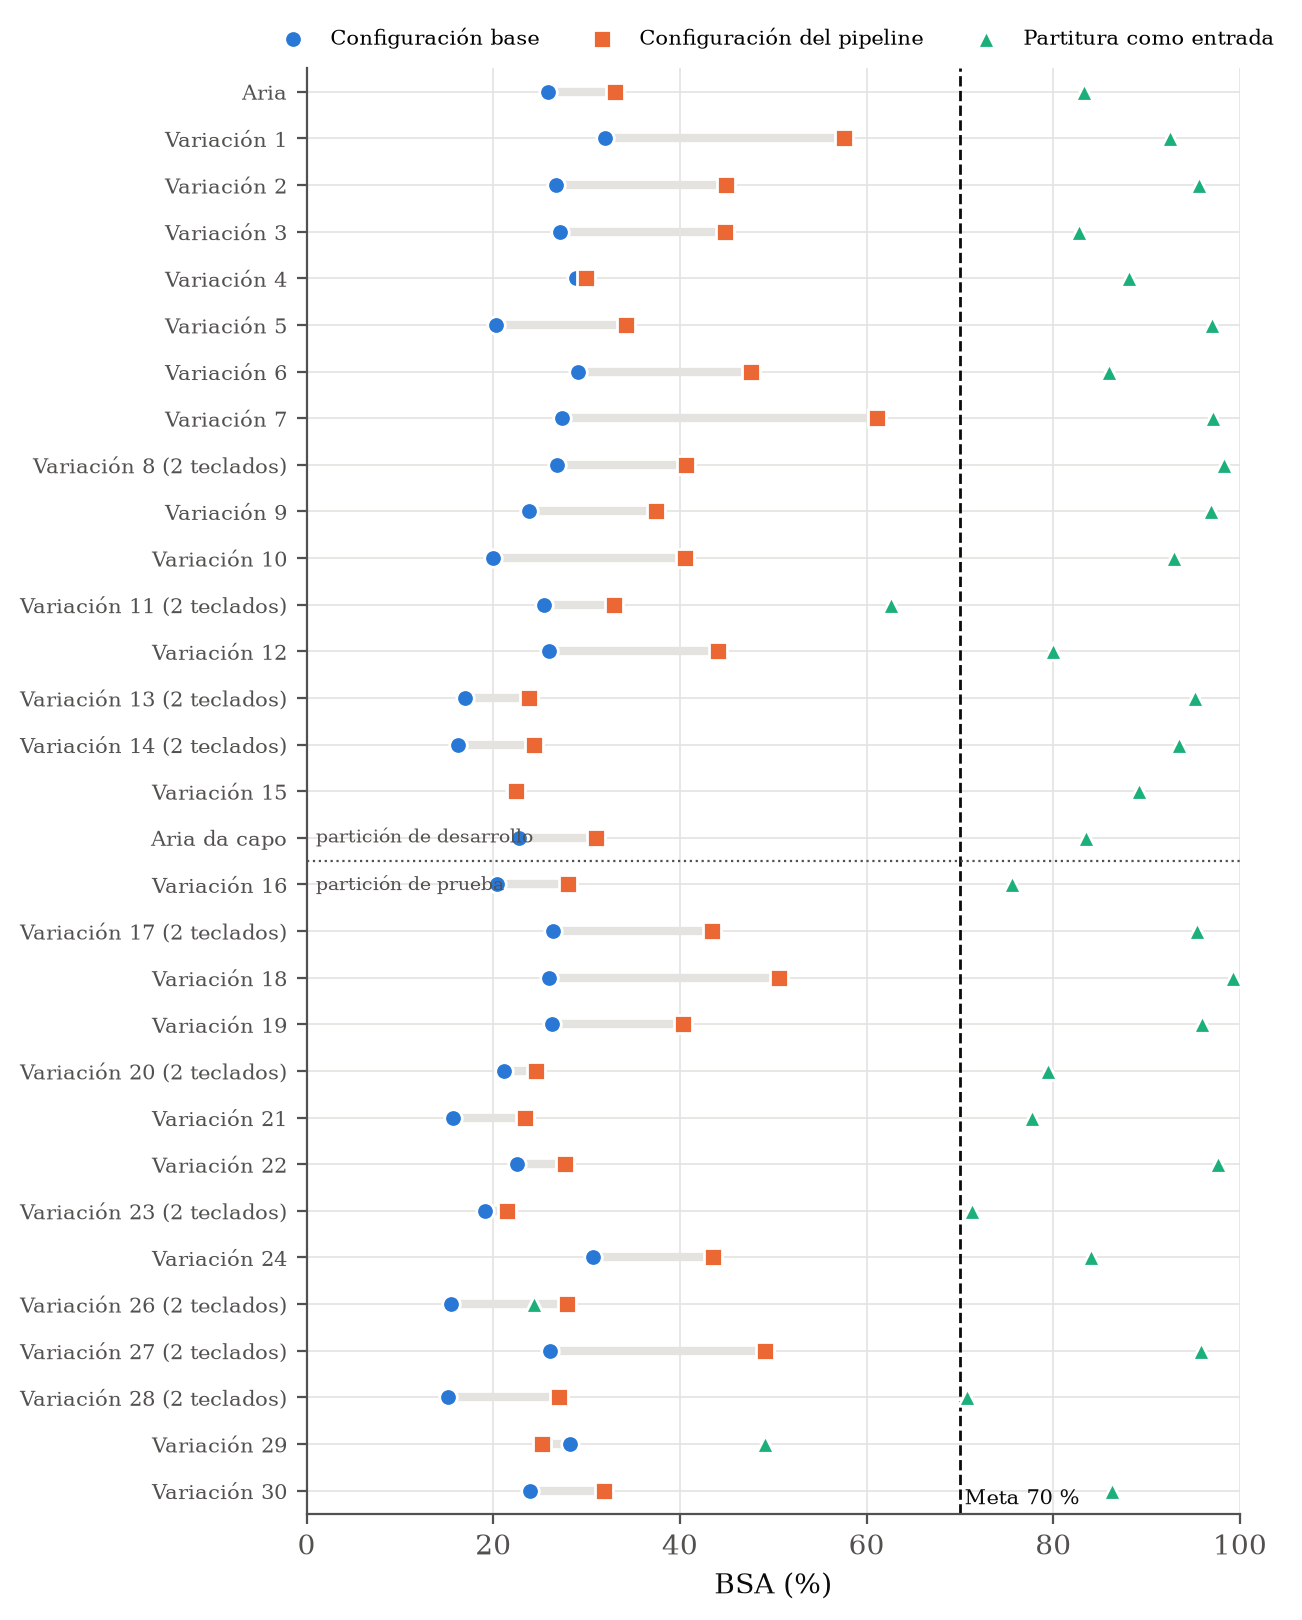
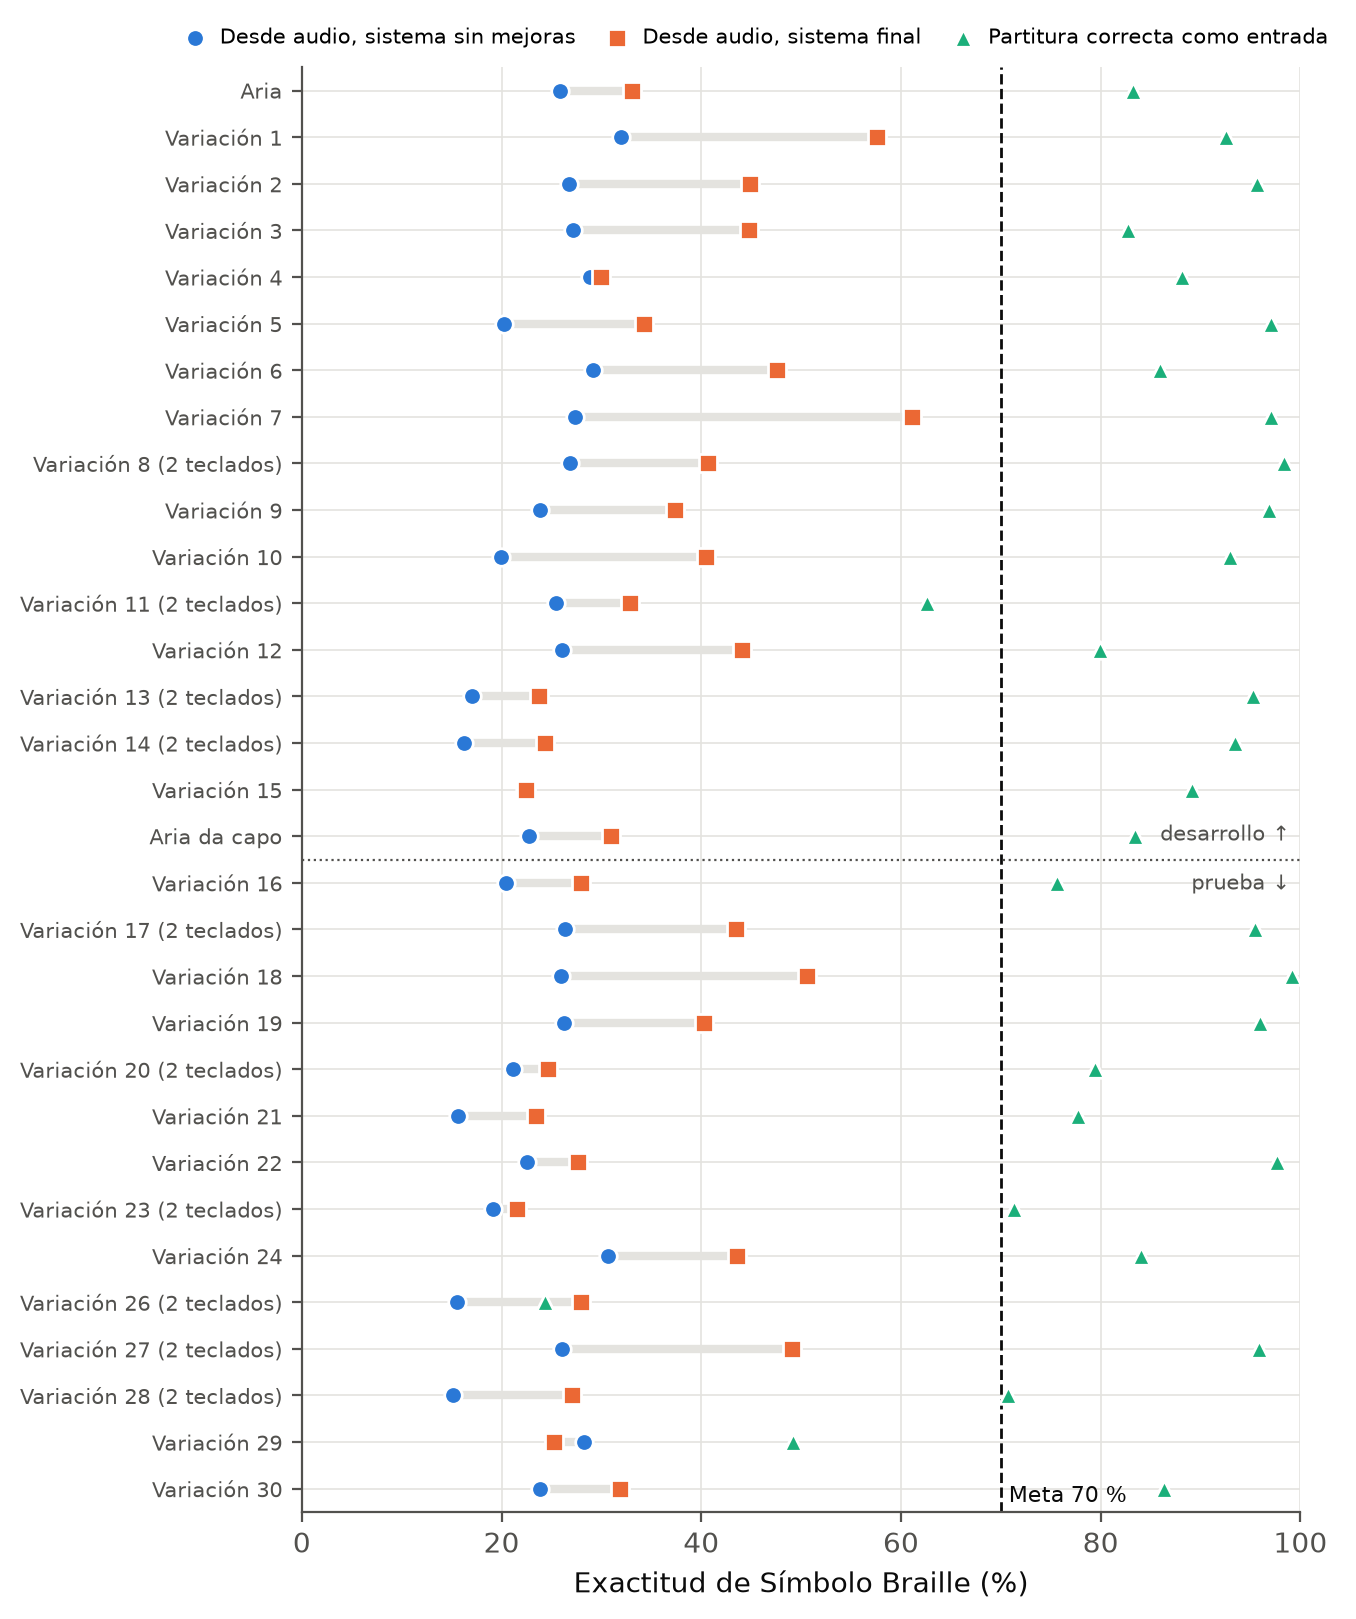
[FEAT] amt_presentation: clearer Goldberg chart labels, single conclusions slide, recommendations table only

diff --git a/amt_presentation/index.html b/amt_presentation/index.html
@@ -708,7 +708,7 @@
 </section>
 
 <!-- 8. Conclusiones -->
-<section class="slide" id="conclusiones" data-peso="90" data-parte="Conclusiones" data-titulo="Conclusiones por objetivo">
+<section class="slide" id="conclusiones" data-peso="150" data-parte="Conclusiones" data-titulo="Conclusiones por objetivo">
   <div class="contenido centrado">
     <h2 class="titulo-seccion">Conclusiones</h2>
     <p class="subtitulo">¿Qué se concluye de cada objetivo?</p>
@@ -725,18 +725,6 @@
   <aside class="notas"><p><b>Conclusiones por objetivo</b></p><p>La pregunta era en qué medida este sistema puede generar partituras Braille con la exactitud necesaria para el uso autónomo. La respuesta corta es que la cadena funciona de principio a fin y una persona ciega la puede usar sola, pero la partitura que sale del audio queda entre 33 y 47 %, lejos del 70 que me propuse. Y esa pérdida tiene un lugar, la reconstrucción de la partitura.</p><p class="accion">Recorro las tarjetas.</p><p>En el primer objetivo, elegí el modelo con evidencia porque esa etapa pone el techo de todo lo demás. Esperaba que un modelo especializado en piano pasara los umbrales y Kong lo hizo. Lo que aprendí ahí es que el resultado depende mucho de cómo se mide el final de las notas, porque esa convención movió el F1 de 33 a casi 84 %.</p><p>En el segundo, esperaba que las degradaciones simuladas se parecieran a lo que graba una persona en su casa. En la simulación el ajuste cumplió, pero con teléfono las mismas obras perdieron 13.3 puntos. Simular el ruido, el eco y la compresión por separado no reprodujo una grabación casera, y por eso queda parcial.</p><p>En el tercero, usar reglas deterministas resultó la decisión correcta, porque con la partitura como entrada el traductor llega a 78.8 %. Lo que no esperaba es que las ediciones humanas agruparan siempre las semicorcheas, y sin agregar esa regla no habría pasado la meta.</p><p>En el cuarto, la espera es viable en todos los entornos, con un máximo de 1.21 veces la duración. La nube me enseñó que ese número depende tanto de cómo se configura el contenedor como del código.</p><p>El quinto es el que no se cumplió. Esperaba perder algunos puntos frente al F1 del modelo y perdí mucho más. La razón es que la reconstrucción de la partitura se lleva más de la mitad de lo que el traductor logra con una partitura correcta.</p><p>Y en el sexto, diseñé la aplicación accesible desde el inicio, porque si una persona ciega no la puede usar el proyecto pierde su razón de ser. En el teléfono completa el flujo sola. En computadora solo lo verifiqué con pruebas automáticas.</p></aside>
 </section>
 
-<section class="slide" id="conclusion-general" data-peso="60" data-parte="Conclusiones" data-titulo="Conclusión general">
-  <div class="contenido centrado">
-    <h2 class="titulo-seccion">Conclusiones</h2>
-    <p class="subtitulo">El sistema cumple parcialmente su propósito</p>
-    <div class="tarjetas tres fijo-tres">
-      <div class="tarjeta oscura"><h3>Conclusión general</h3><p>Cumple la construcción de una herramienta abierta y accesible que convierte grabaciones en Braille sin intervención. No alcanza la exactitud para el uso autónomo, debido a que el paso de notas a partitura concentra la pérdida y a que el teléfono agrega notas partidas. La distancia al transcriptor quedó medida en 57 grabaciones y ubicada en una etapa.</p></div>
-      <div class="tarjeta"><h3>Limitaciones</h3><ul><li>Las Goldberg vienen de una sola intérprete</li><li>Un solo teléfono en una sola sala</li><li>Sin evaluación con personas ciegas, así que la utilidad de la partitura queda sin comprobar</li></ul></div>
-      <div class="tarjeta"><h3>Aporte</h3><ul><li>Cruza la frontera entre la transcripción acústica y la traducción Braille, que ningún antecedente cubría</li><li>Una forma reproducible de medir una partitura Braille contra ediciones humanas</li><li>Hoy entrega un primer borrador que reduce la dependencia de un intermediario</li></ul></div>
-    </div>
-  </div>
-  <aside class="notas"><p><b>Conclusión general</b></p><p>Juntando los seis objetivos, el sistema cumple parcialmente su propósito. Cumple en construir una herramienta abierta y accesible que convierte grabaciones en Braille sin que nadie intervenga. No alcanza la exactitud para el uso autónomo, debido a dos cosas. El paso de las notas a una partitura con compases, manos y figuras es donde se pierde casi todo, y las grabaciones con teléfono agregan notas partidas que el ajuste no anticipó. El objetivo general sí se cumple, porque pedía construir el sistema y determinar qué tan lejos queda de un transcriptor, y esa distancia quedó medida en 57 grabaciones y ubicada en una etapa.</p><p class="accion">Señalo Limitaciones.</p><p>Estas cifras hay que leerlas con sus condiciones. Las Goldberg vienen de una sola intérprete, las grabaciones con teléfono se hicieron con un solo teléfono en una sola habitación, y la limitación de más peso es que no hubo evaluación con personas ciegas. El trabajo arrancó a finales de marzo, cuando se aprobó el tema, y no hubo tiempo de coordinar sesiones con un grupo tan pequeño y difícil de contactar. Por eso no sé todavía si un 33 % ya sirve para estudiar o no.</p><p class="accion">Señalo Aporte.</p><p>Lo que deja el trabajo es un sistema que cruza la frontera entre la transcripción de audio y la traducción a Braille, que ninguno de los antecedentes cubría, y una forma reproducible de medir una partitura Braille contra ediciones humanas, que se puede usar con otros sistemas. Con la exactitud de hoy la partitura funciona como un primer borrador que alguien revisa, así que reduce la dependencia de un transcriptor sin eliminarla.</p></aside>
-</section>
 
 <section class="slide" id="recomendaciones" data-peso="60" data-parte="Recomendaciones" data-titulo="Recomendaciones">
   <div class="contenido centrado">
@@ -755,13 +743,8 @@
         </tbody>
       </table>
     </div>
-    <div class="tarjetas tres fijo-tres rec-extra">
-      <div class="tarjeta"><h3>Con personas</h3><p>Sesiones con estudiantes ciegos de piano y docentes para saber qué exactitud hace falta para estudiar.</p></div>
-      <div class="tarjeta"><h3>Ahorro del transcriptor</h3><p>Medir cuánto tiempo ahorra corregir el borrador frente a transcribir desde cero.</p></div>
-      <div class="tarjeta"><h3>Línea futura</h3><p>La reconstrucción de la partitura como problema de investigación propio.</p></div>
-    </div>
   </div>
-  <aside class="notas"><p><b>Recomendaciones</b></p><p>Cada recomendación sale de un hallazgo concreto, propone una acción y dice qué se espera lograr. Las seis de la tabla siguen el orden de los objetivos.</p><p>En el modelo, el hFT-Transformer sacó 5.6 puntos más de F1 y yo inferí que eso casi no cambiaría la partitura, pero no lo comprobé. Lo recomiendo pasar por el sistema completo y comparar su BSA con el 33.2 %, para decidir con un dato.</p><p>En el ajuste, como el teléfono parte las notas, primero agregaría un filtro que una los ataques repetidos de la misma tecla. Después grabaría con varios teléfonos mientras un piano digital registra lo que se toca, y con esos pares repetiría el ajuste fino.</p><p>En el traductor, admitiría un compás distinto en cada mano, separaría voces solo cuando un detector encuentre voces independientes y agregaría pedal y matices, que el modelo ya estima.</p><p>En la integración, estimaría compás y armadura desde las notas para no pedírselos a la persona, y mediría la espera con varias conversiones al mismo tiempo.</p><p>En la fidelidad, que es donde más se puede ganar, cambiaría el reparto de manos por registro por un clasificador entrenado con partituras que marcan la mano de cada nota, y ampliaría la ventana del pulso para las piezas lentas.</p><p>Y en el acceso, recorrería el flujo con NVDA, VoiceOver y Orca para completar la prueba en computadora.</p><p class="accion">Señalo las tres tarjetas de abajo.</p><p>Fuera del sistema quedan tres más. La más importante es evaluar con estudiantes ciegos y docentes, para saber qué exactitud hace falta de verdad para estudiar una obra. También medir cuánto tiempo le ahorra a un transcriptor corregir el borrador en lugar de empezar de cero, que era la motivación del proyecto. Y como línea de investigación, estudiar la reconstrucción de la partitura como un problema propio, porque es justo donde se pierde la exactitud y casi no hay literatura sobre eso.</p></aside>
+  <aside class="notas"><p><b>Recomendaciones</b></p><p>Cada recomendación sale de un hallazgo concreto, propone una acción y dice qué se espera lograr. Las seis de la tabla siguen el orden de los objetivos.</p><p>En el modelo, el hFT-Transformer sacó 5.6 puntos más de F1 y yo inferí que eso casi no cambiaría la partitura, pero no lo comprobé. Lo recomiendo pasar por el sistema completo y comparar su BSA con el 33.2 %, para decidir con un dato.</p><p>En el ajuste, como el teléfono parte las notas, primero agregaría un filtro que una los ataques repetidos de la misma tecla. Después grabaría con varios teléfonos mientras un piano digital registra lo que se toca, y con esos pares repetiría el ajuste fino.</p><p>En el traductor, admitiría un compás distinto en cada mano, separaría voces solo cuando un detector encuentre voces independientes y agregaría pedal y matices, que el modelo ya estima.</p><p>En la integración, estimaría compás y armadura desde las notas para no pedírselos a la persona, y mediría la espera con varias conversiones al mismo tiempo.</p><p>En la fidelidad, que es donde más se puede ganar, cambiaría el reparto de manos por registro por un clasificador entrenado con partituras que marcan la mano de cada nota, y ampliaría la ventana del pulso para las piezas lentas.</p><p>Y en el acceso, recorrería el flujo con NVDA, VoiceOver y Orca para completar la prueba en computadora.</p></aside>
 </section>
 
 <section class="slide" id="mejoras" data-peso="60" data-parte="Recomendaciones" data-titulo="Pipeline propuesto">
@@ -937,11 +920,11 @@
     <span class="etiqueta">Detalle por pieza</span>
     <h2>Las 31 piezas de Goldberg</h2>
     <figure class="figura">
-      <img class="foto" src="assets/oe5_goldberg_por_pieza.png" alt="Exactitud por pieza de las Variaciones Goldberg con la configuración base, la del pipeline y la partitura como entrada" style="max-width:720px;margin:0 auto;background:#fff">
-      <figcaption>En casi todas las piezas la partitura como entrada supera el 70 % y el audio queda por debajo.</figcaption>
+      <img class="foto" src="assets/oe5_goldberg_por_pieza.png" alt="Exactitud por pieza de las Variaciones Goldberg desde audio con el sistema sin mejoras, con el sistema final y con la partitura correcta como entrada" style="max-width:720px;margin:0 auto;background:#fff">
+      <figcaption>Sin mejoras: manos cortadas en el Do central y tempo fijo. Sistema final: con limpieza de armónicos, reparto de manos, seguimiento del pulso y agrupación de semicorcheas. Con la partitura correcta casi todas las piezas pasan el 70 %.</figcaption>
     </figure>
   </div>
-  <aside class="notas"><p><b>Respuesta · detalle por pieza</b></p><p>Las mejores piezas fueron la Variación 7, con 61.1 %, y la Variación 1, con 57.6 %. Las más bajas son las que tienen cruce de manos y las lentas, que coincide con las causas del análisis. La Variación 26 es un caso aparte, porque escribe un compás distinto en cada mano y el sistema usa uno solo, por eso ni con la partitura correcta pasa de 24.4 %.</p></aside>
+  <aside class="notas"><p><b>Respuesta · detalle por pieza</b></p><p>Cada fila es una pieza y tiene tres puntos. El azul es el sistema desde audio sin ninguna mejora, que corta las manos en el Do central y usa un tempo fijo. El naranja es el sistema final, el que se entrega, con la limpieza de armónicos, el reparto de manos por continuidad, el seguimiento del pulso y la agrupación de semicorcheas. El verde es el mismo traductor con la partitura correcta como entrada, sin pasar por el audio.</p><p>La distancia del azul al naranja es lo que ganaron las mejoras, en promedio de 24.6 a 38.3 % en desarrollo y hasta 33.2 % en prueba. La distancia del naranja al verde es lo que todavía se pierde al reconstruir la partitura.</p><p>Las mejores piezas fueron la Variación 7, con 61.1 %, y la Variación 1, con 57.6 %. Las más bajas son las de cruce de manos y las lentas. La Variación 26 es un caso aparte, porque escribe un compás distinto en cada mano y el sistema usa uno solo, por eso ni con la partitura correcta pasa de 24.4 %.</p></aside>
 </section>
 
 

diff --git a/amt_presentation/styles.css b/amt_presentation/styles.css
@@ -492,7 +492,3 @@ body.presentando .hero .campo { height: 100vh; min-height: 0; padding-top: 72px;
 #conclusiones .tarjetas { margin-top: 24px; }
 .tabla.recomendaciones td:first-child { font-weight: 500; width: 36%; }
 .tabla.recomendaciones td { font-size: 15px; line-height: 1.3; padding: 9px 14px; }
-.rec-extra { margin-top: 16px; }
-.rec-extra .tarjeta { padding: 16px 22px; }
-.rec-extra h3 { font-size: 20px; }
-.rec-extra p { font-size: 15px; margin-top: 6px; }
